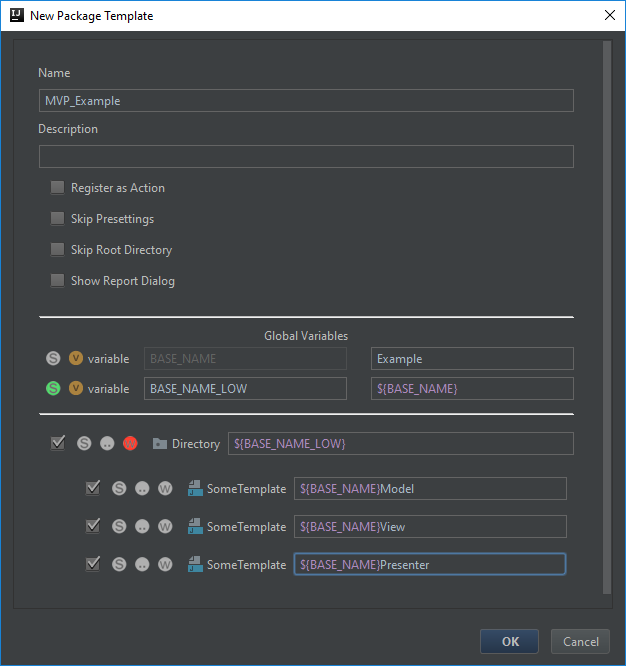
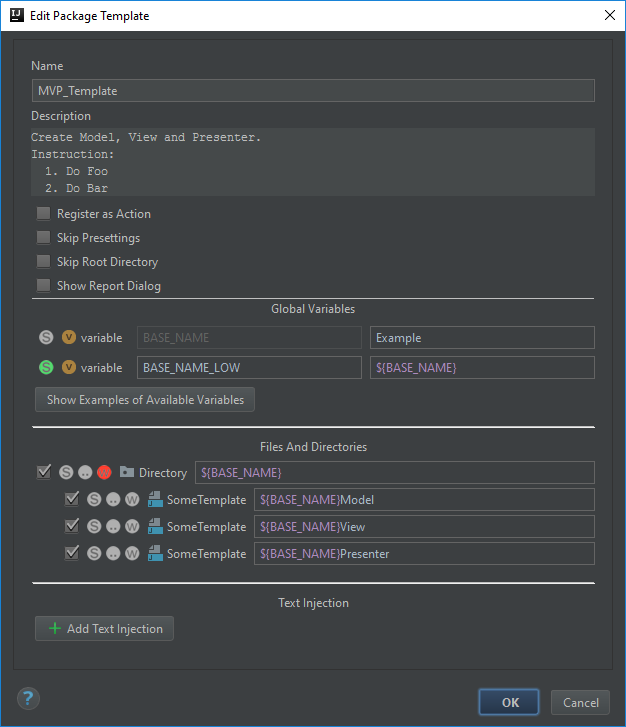
v0.3.0

diff --git a/_tutorials/ru/global_variables.md b/_tutorials/ru/global_variables.md
@@ -13,20 +13,40 @@ order: 5
 
 ![add_global_variable]({{ site.baseurl }}/images/tutorial/add_global_variable.png){: .imageFragment}
 
-### Где работает
-* В тексте [File Templates][2]
-* В названиях директорий
-* В названиях файлов
-
 ### Пример
 Допустим у нас есть переменная **VARIABLE_NAME** со значением **FooBar**,<br>
 Тогда **Example<font class="variable">${VARIABLE_NAME}</font>File** преобразуется в **ExampleFooBarFile**
 
-### Особенности
-- В любом PackageTemplate шаблоне есть стандартная переменная **BASE_NAME**, которая может использоваться в пользовательских глобальных переменных.<br>
-Например, переменная **VARIABLE_NAME** со значением **Foo<font class="variable">${BASE_NAME}</font>Bar**
+### Где работает
+* В тексте [File Templates][2]
+* В названиях директорий
+* В названиях файлов
+* В глобальных переменных, которые объявлены ниже.
 
-<!-- - **File** Templates поддерживают вариант без скобок: **<font class="variable">$VARIABLE_NAME</font>**, однако в **Package**Templates скобки нужно указывать **всегда**. Это касается только диалога редактирования **Package Template**. В тексте **File Templates** по прежнему валидны оба варианта.  -->
+![global_vars_consistently]({{ site.baseurl }}/images/tutorial/global_vars_consistently.png){: .imageFragment}
+
+### Набор стандартных переменных
+
+В зависимости от IDE будут доступны различные наборы переменных. Просмотреть их можно с помощью соответсвующей кнопки(см. картинку выше). Они работают во всех глобальных переменных + там же, где и обычные глобальные переменные. Ниже пример из Intellij Idea CE:
+
+![global_vars_predefined]({{ site.baseurl }}/images/tutorial/global_vars_predefined.png){: .image}
+
+**Примечание:** Диалог не модальный (Можно переключаться между родительским окном и диалогом)
+
+* **CTX_FULL_PATH** - путь к элементу на котором был вызван плагин.
+* **CTX_DIR_PATH** - похожа на предыдущую переменную, но содержит путь к папке.
+
+Пример, когда плагин вызван на файле:
+
+* **CTX_FULL_PATH** C:/foo/bar/Main.java
+* **CTX_DIR_PATH** C:/foo/bar
+
+Пример, когда плагин вызван на папке:
+
+* **CTX_FULL_PATH** C:/foo/bar
+* **CTX_DIR_PATH** C:/foo/bar
+
+**Примечание:** Path separators всегда forward slash **/**.
 
 [1]: {{ site.data.links.file_template_variables }}
 [2]: {{ site.data.links.file_templates }}

diff --git a/_tutorials/en/global_variables.md b/_tutorials/en/global_variables.md
@@ -13,20 +13,40 @@ Use right-click menu to add\remove global variable.
 
 ![add_global_variable]({{ site.baseurl }}/images/tutorial/add_global_variable.png){: .imageFragment}
 
-### Where you can use it?
-* In [File Templates][2] content.
-* In directory's name.
-* In filename.
-
 ### Example
 Suppose we have global variable **VARIABLE_NAME** with value **FooBar**,<br>
 Then **Example<font class="variable">${VARIABLE_NAME}</font>File** will be converted to **ExampleFooBarFile**
 
-### Note
-- Each PackageTemplate have default variable **BASE_NAME**, which can be used in other **global variables**<br>
-e.g. variable **VARIABLE_NAME** with value **Foo<font class="variable">${BASE_NAME}</font>Bar**
+### Where you can use it?
+* In [File Templates][2] content.
+* In directory's name.
+* In filename.
+* In global vars which defined below.
 
-<!-- - **File** Templates поддерживают вариант без скобок: **<font class="variable">$VARIABLE_NAME</font>**, однако в **Package**Templates скобки нужно указывать **всегда**. Это касается только диалога редактирования **Package Template**. В тексте **File Templates** по прежнему валидны оба варианта.  -->
+![global_vars_consistently]({{ site.baseurl }}/images/tutorial/global_vars_consistently.png){: .imageFragment}
+
+### Predefined Variables
+
+Depends on IDE you can use different sets of predefined variables. You can view them using the appropriate button (see picture above). They work in all global variables + in the same place as the global variables. An example from Intellij Idea CE (RU localization):
+
+![global_vars_predefined]({{ site.baseurl }}/images/tutorial/global_vars_predefined.png){: .image}
+
+**Note:** Dialog isn't modal (Allow you to switch between dialog and parent window)
+
+* **CTX_FULL_PATH** - path to element where plugin is called from.
+* **CTX_DIR_PATH** - like previous var, but contains path to directory.
+
+Example, when plugin called from file:
+
+* **CTX_FULL_PATH**  C:/foo/bar/Main.java
+* **CTX_DIR_PATH**   C:/foo/bar
+
+Example, when plugin called from dir:
+
+* **CTX_FULL_PATH** C:/foo/bar
+* **CTX_DIR_PATH** C:/foo/bar
+
+**Note:** Path separators alsways is forward slash **/**.
 
 [1]: {{ site.data.links.file_template_variables }}
 [2]: {{ site.data.links.file_templates }}

diff --git a/_tutorials/ru/text_injection.md b/_tutorials/ru/text_injection.md
@@ -1,0 +1,37 @@
+---
+title: Вставка текста (Text Injection)
+lang: ru
+order: 7
+---
+
+Text Injection позволяет вставить текст в существующий файл.
+
+![text_injection_dialog]({{ site.baseurl }}/images/tutorial/text_injection_dialog.png){: .image}
+
+1. Краткое описание.
+2. [Custom Path][1]
+3. Inject Direction (Место вставки).
+4. Искомый текст.
+5. Регулярные выражения RegExp. Если отмечено, то вместо простого текста в 4-м пункте указывается Pattern(Используется реализация из стандартной библиотеки языка Java, [подробнее][1])
+6. Текст, который будет вставлен(Можно использовать Глобальные и Стандартные переменные).
+
+**Примечание:** Для переноса строки используйте Enter ( **\n** не сработает ).
+
+### Inject Direction (Место вставки)
+
+![inject_direction_dropdown]({{ site.baseurl }}/images/tutorial/inject_direction_dropdown.png){: .imageFragment}
+
+Пример:
+
+![injection_directions_example]({{ site.baseurl }}/images/tutorial/injection_directions_example.png){: .imageFragment}
+
+### Regex Helper
+
+Можно вызвать(соответсвующей кнопкой) диалог в котором удобно тестировать шаблон:
+
+![regexp_helper_dialog]({{ site.baseurl }}/images/tutorial/regexp_helper_dialog.png){: .image}
+
+**Примечание:** Диалог не модальный (Можно переключаться между родительским окном и диалогом)
+
+[1]: {{ site.data.links.regexp_docs }}
+[2]: {{ site.baseurl}}{{ site.data.links.tutorial_global_variables[page.lang] }}

diff --git a/_tutorials/ru/tips_and_tricks.md b/_tutorials/ru/tips_and_tricks.md
@@ -1,7 +1,7 @@
 ---
 title: Советы
 lang: ru
-order: 12
+order: 13
 ---
 
 ### Уникальные имена для File Template
@@ -15,9 +15,9 @@ order: 12
 ### Порядок выполнения
 Для ясности нужно понимать какие операции и в каком порядке выполняются:
 
-1. Выполнение [Script][2] у глобальной переменной BASE_NAME.
-2. Вставка <font class="variable">${BASE_NAME}</font> в остальные [глобальные переменные][3].
-3. Выполнение **Script** у остальных **глобальных переменных**.
+1. Вычисление [глобальных переменных][3] (сверху вниз).<br>
+   A) Вставка стандартной или вышестоящей глобальной <font class="variable">${переменной}</font>.<br>
+   B) Выполнение [Script][2].<br>
 4. Вставка **глобальных переменных** в имена **директорий** и **файлов**.
 5. Выполнение Script у **директорий** и **файлов**.
 6. Добавление **глобальных переменных** к уже имеющимся [переменным в File Template][1]. 

diff --git a/_tutorials/en/text_injection.md b/_tutorials/en/text_injection.md
@@ -1,0 +1,37 @@
+---
+title: Text Injection
+lang: en
+order: 7
+---
+
+Text Injection allow you to insert text to file.
+
+![text_injection_dialog]({{ site.baseurl }}/images/tutorial/text_injection_dialog.png){: .image}
+
+1. Short description.
+2. [Custom Path][1]
+3. Inject Direction.
+4. Text to search.
+5. RegExp. Select checkbox to use pattern with inputfield (Plugin uses default impl from standart JDK (Java), [details][1])
+6. Text to insert (Global and Predefined vars available).
+
+**Note:** Use **Enter** for newline ( **\n** doesn't works ).
+
+### Inject Direction
+
+![inject_direction_dropdown]({{ site.baseurl }}/images/tutorial/inject_direction_dropdown.png){: .imageFragment}
+
+Example:
+
+![injection_directions_example]({{ site.baseurl }}/images/tutorial/injection_directions_example.png){: .imageFragment}
+
+### Regex Helper
+
+You can use button(see picture above) to show dialog for testing your patterns:
+
+![regexp_helper_dialog]({{ site.baseurl }}/images/tutorial/regexp_helper_dialog.png){: .image}
+
+**Note:** Dialog isn't modal (Allow you to switch between dialog and parent window)
+
+[1]: {{ site.data.links.regexp_docs }}
+[2]: {{ site.baseurl}}{{ site.data.links.tutorial_global_variables[page.lang] }}

diff --git a/_tutorials/en/tips_and_tricks.md b/_tutorials/en/tips_and_tricks.md
@@ -1,7 +1,7 @@
 ---
 title: Tips and Tricks
 lang: en
-order: 12
+order: 13
 ---
 
 ### Unique names for File Templates
@@ -15,12 +15,12 @@ You can use prefixes like:
 ### Execution Order
 To clarify how plugin works you must be familiar with operations that executes when you use **Package Template**:
 
-1. Execute [Groovy script][2] of BASE_NAME global variable.
-2. Replace <font class="variable">${BASE_NAME}</font> value in other [global variables][3].
-3. Execute **Groovy scripts** of other **global variables**.
+1. Calculate values of [global variables][3].<br>
+   A) Replace predefined or early defined global <font class="variable">${variable}</font>.<br>
+   B) Execute [Script][2].<br>
 4. Replace **global variables** in **directory** and **file** names.
 5. Execute Groovy scripts of **directories** and **files**.
-6. Add **global variables** to array of [variables in File Template][1]. 
+6. Add **global variables** to array of [variables in File Template][1].
 7. Create directoies and files.
 
 ### Backward Compatibility

diff --git a/index.md b/index.md
@@ -8,10 +8,18 @@ css: home.css
 ![ru]({{ site.baseurl }}/images/lang/ru.png) [Русский][2]
 
 <details >
-<summary class="Spoiler">YouTube demo v0.1.0 (demo for v0.2.0 coming soon)</summary>
+<summary class="Spoiler">YouTube simple demo</summary>
 
-<iframe src="http://www.youtube.com/embed/AypkKJc1LMc"
-width="400" height="240" frameborder="0" allowfullscreen/>
+<iframe src="http://www.youtube.com/embed/mrxAw5jAvuI"
+width="400" height="240" frameborder="0" allowfullscreen></iframe>
+
+</details>
+<br>
+<details >
+<summary class="Spoiler">YouTube Android demo (MVP Activity example)</summary>
+
+<iframe src="http://www.youtube.com/embed/GvGndGyS-As"
+width="400" height="240" frameborder="0" allowfullscreen></iframe>
 
 </details>
 

diff --git a/_tutorials/en/create_template.md b/_tutorials/en/create_template.md
@@ -16,6 +16,9 @@ order: 3
 **B.** [Script][5]<br>
 **C.** [Custom Path][6]<br>
 **D.** [Write Rules][2]<br>
+7. Add [Text Injection][7]
+
+### Addition Element
 
 ![add_element]({{ site.baseurl }}/images/tutorial/add_element.png){: .imageFragment}
 
@@ -35,3 +38,4 @@ To have a better understanding of this example, be familiar with other tutorials
 [4]: {{ site.baseurl}}{{ site.data.links.tutorial_shortcuts[page.lang] }}
 [5]: {{ site.baseurl}}{{ site.data.links.tutorial_script[page.lang] }}
 [6]: {{ site.baseurl}}{{ site.data.links.tutorial_custom_path[page.lang] }}
+[7]: {{ site.baseurl}}{{ site.data.links.tutorial_text_injection[page.lang] }}

diff --git a/_other/ru/changelog.md b/_other/ru/changelog.md
@@ -9,7 +9,7 @@ css: tutorials.css
 
 Первая версия.
 
-### v0.2.0 
+### v0.2.0
 
 Изменений много, лучше перечитайте документацию целиком.<br>
 Основные именения:
@@ -19,3 +19,13 @@ css: tutorials.css
 * Custom Path.
 * Write Rules.
 * Правки в UI.
+
+### v0.3.0
+
+* Добавлен [Text Injection][1]
+* Немного переделаны [Global Variables][2]
+* Правки в UI.
+
+
+[1]: {{ site.baseurl}}{{ site.data.links.tutorial_text_injection[page.lang] }}
+[2]: {{ site.baseurl}}{{ site.data.links.tutorial_global_variables[page.lang] }}

diff --git a/_tutorials/ru/create_template.md b/_tutorials/ru/create_template.md
@@ -16,7 +16,9 @@ order: 3
 **B.** [Script][5]<br>
 **C.** [Custom Path][6]<br>
 **D.** [Write Rules][2]<br>
+7. Создать [Text Injection][7]
 
+### Добавление элемента
 
 ![add_element]({{ site.baseurl }}/images/tutorial/add_element.png){: .imageFragment}
 
@@ -36,3 +38,4 @@ order: 3
 [4]: {{ site.baseurl}}{{ site.data.links.tutorial_shortcuts[page.lang] }}
 [5]: {{ site.baseurl}}{{ site.data.links.tutorial_script[page.lang] }}
 [6]: {{ site.baseurl}}{{ site.data.links.tutorial_custom_path[page.lang] }}
+[7]: {{ site.baseurl}}{{ site.data.links.tutorial_text_injection[page.lang] }}

diff --git a/_other/en/changelog.md b/_other/en/changelog.md
@@ -19,3 +19,13 @@ General changes:
 * Custom Path.
 * Write Rules.
 * UI improvements.
+
+### v0.3.0
+
+* Добавлен [Text Injection][1]
+* [Global Variables][2] a little bit reworked.
+* UI improvements.
+
+
+[1]: {{ site.baseurl}}{{ site.data.links.tutorial_text_injection[page.lang] }}
+[2]: {{ site.baseurl}}{{ site.data.links.tutorial_global_variables[page.lang] }}

diff --git a/_tutorials/en/custom_path.md b/_tutorials/en/custom_path.md
@@ -47,4 +47,4 @@ This CustomPath will find dir **src**, then **destination** and create file in t
 
 ![custom_path_example_result]({{ site.baseurl }}/images/tutorial/custom_path_example_result.png){: .imageFragment}
 
-[1]: http://docs.oracle.com/javase/7/docs/api/java/util/regex/Pattern.html
+[1]: {{ site.data.links.regexp_docs }}
